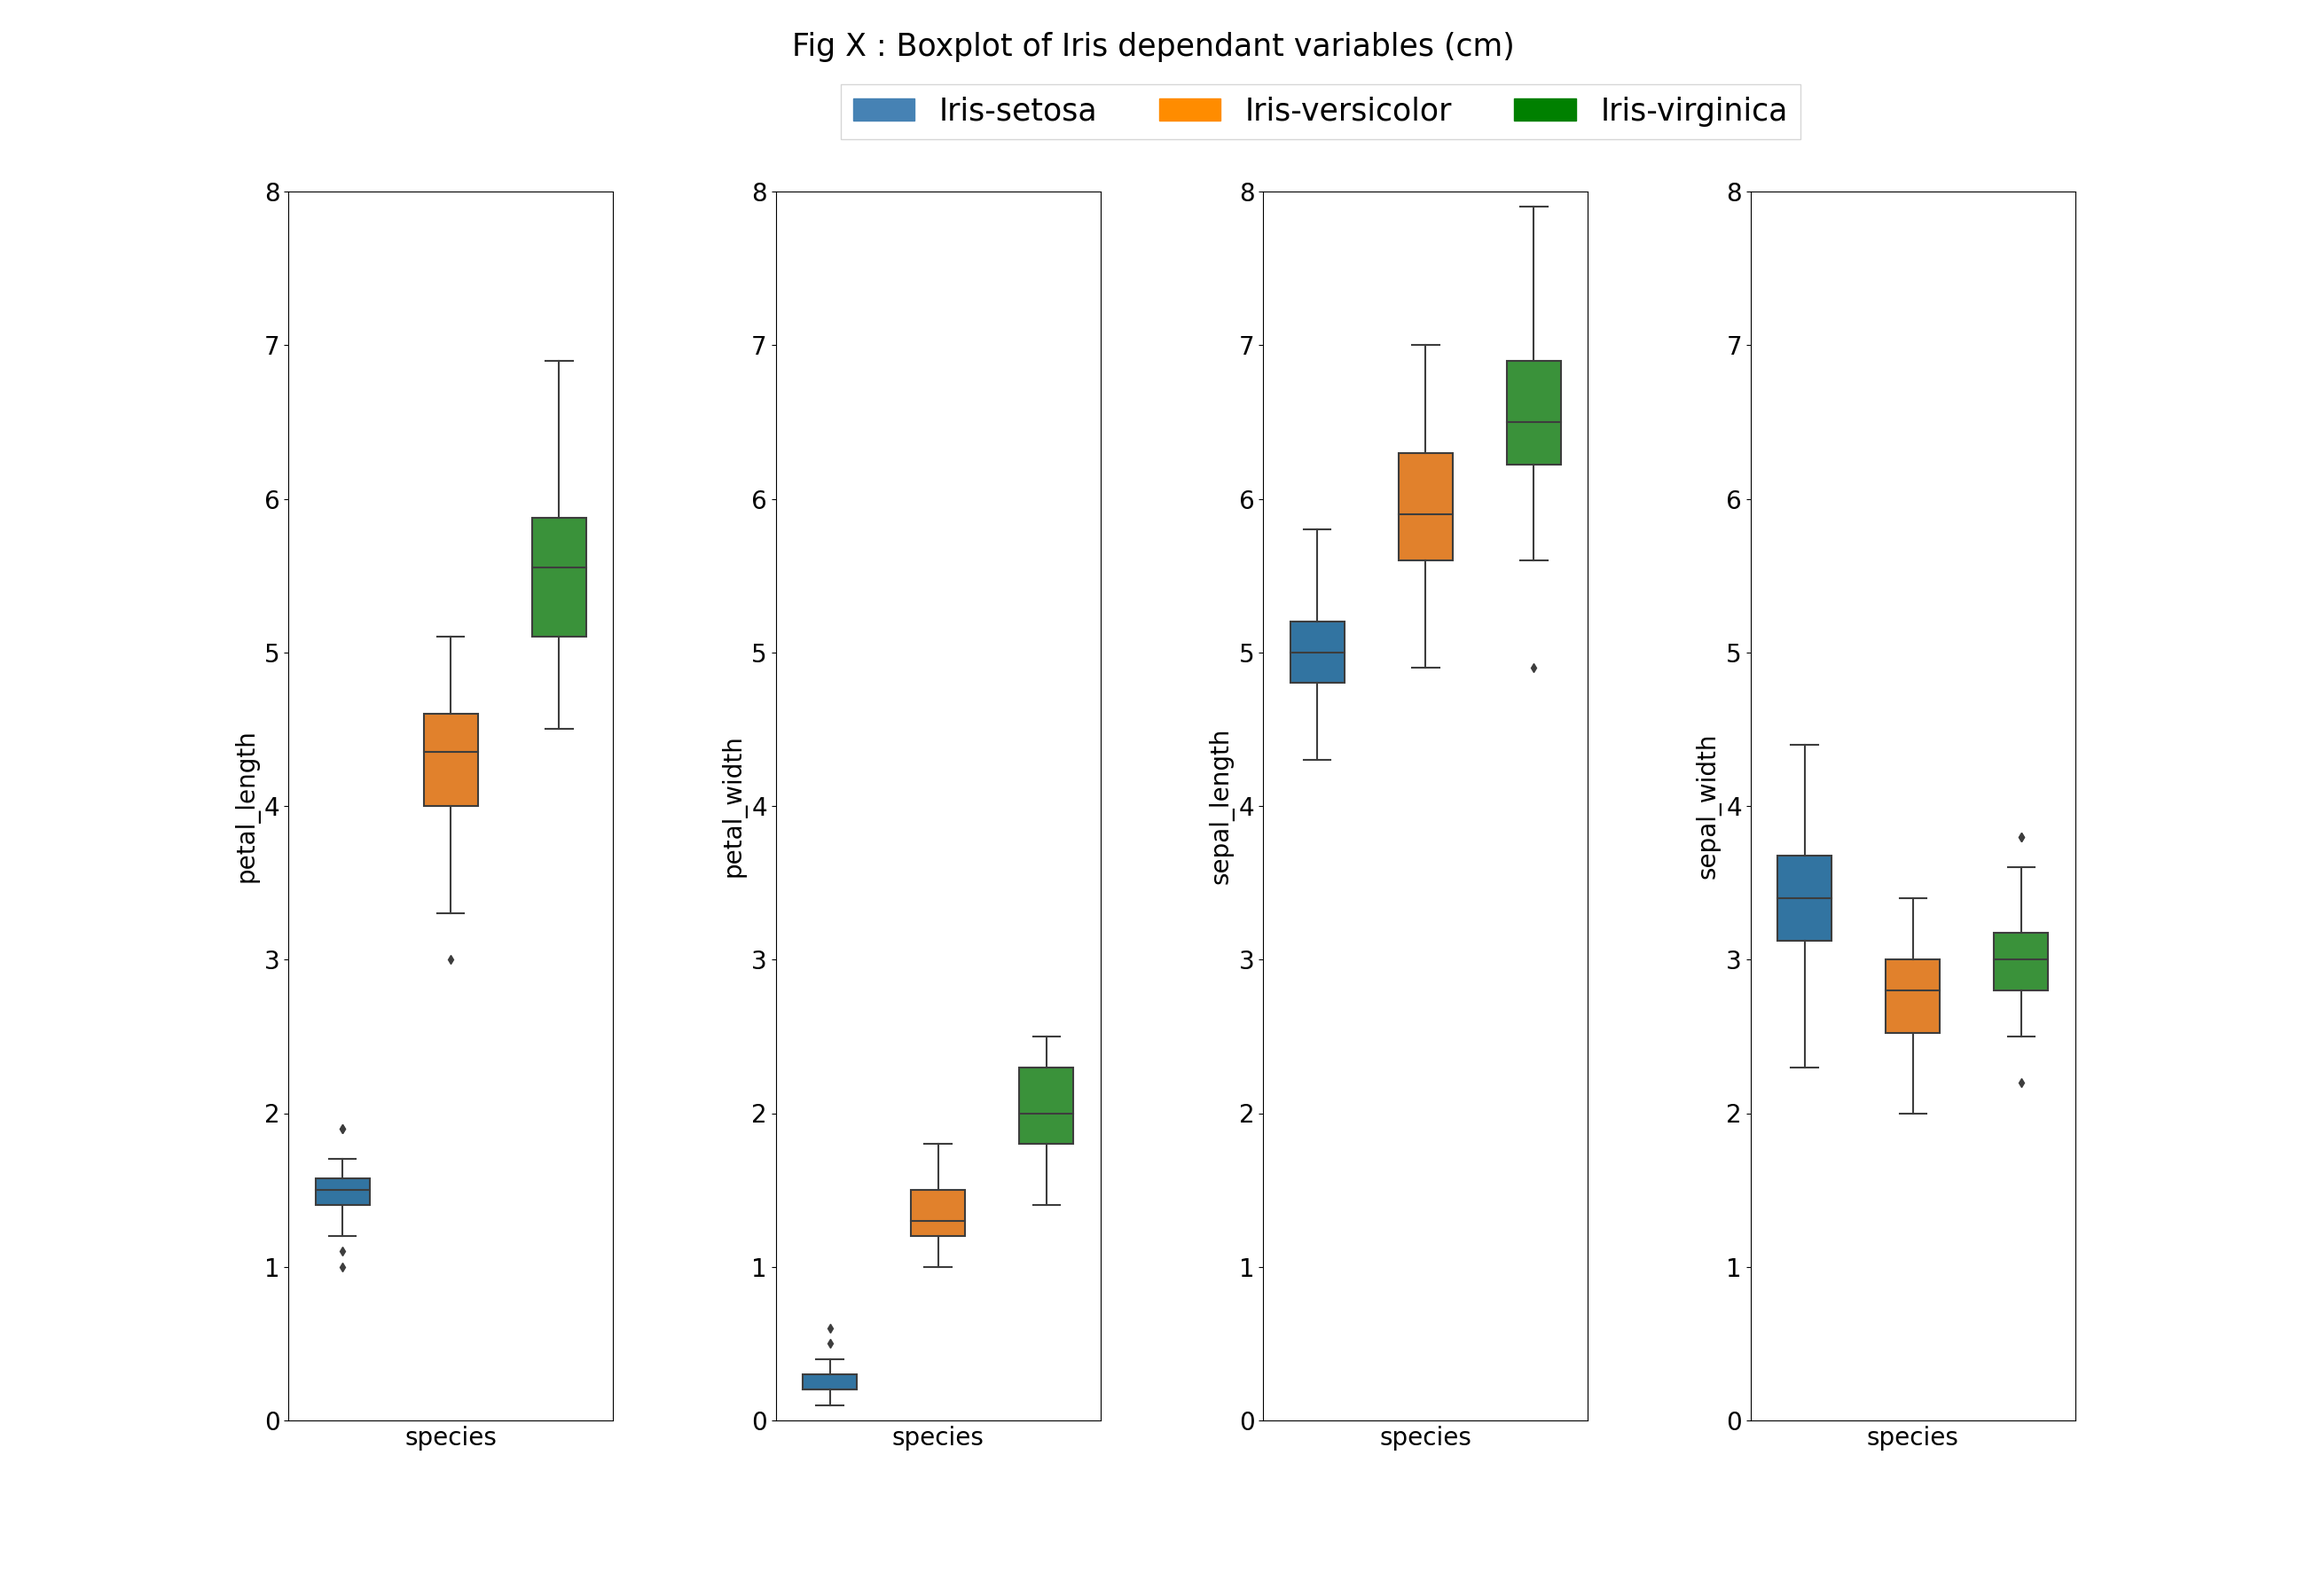
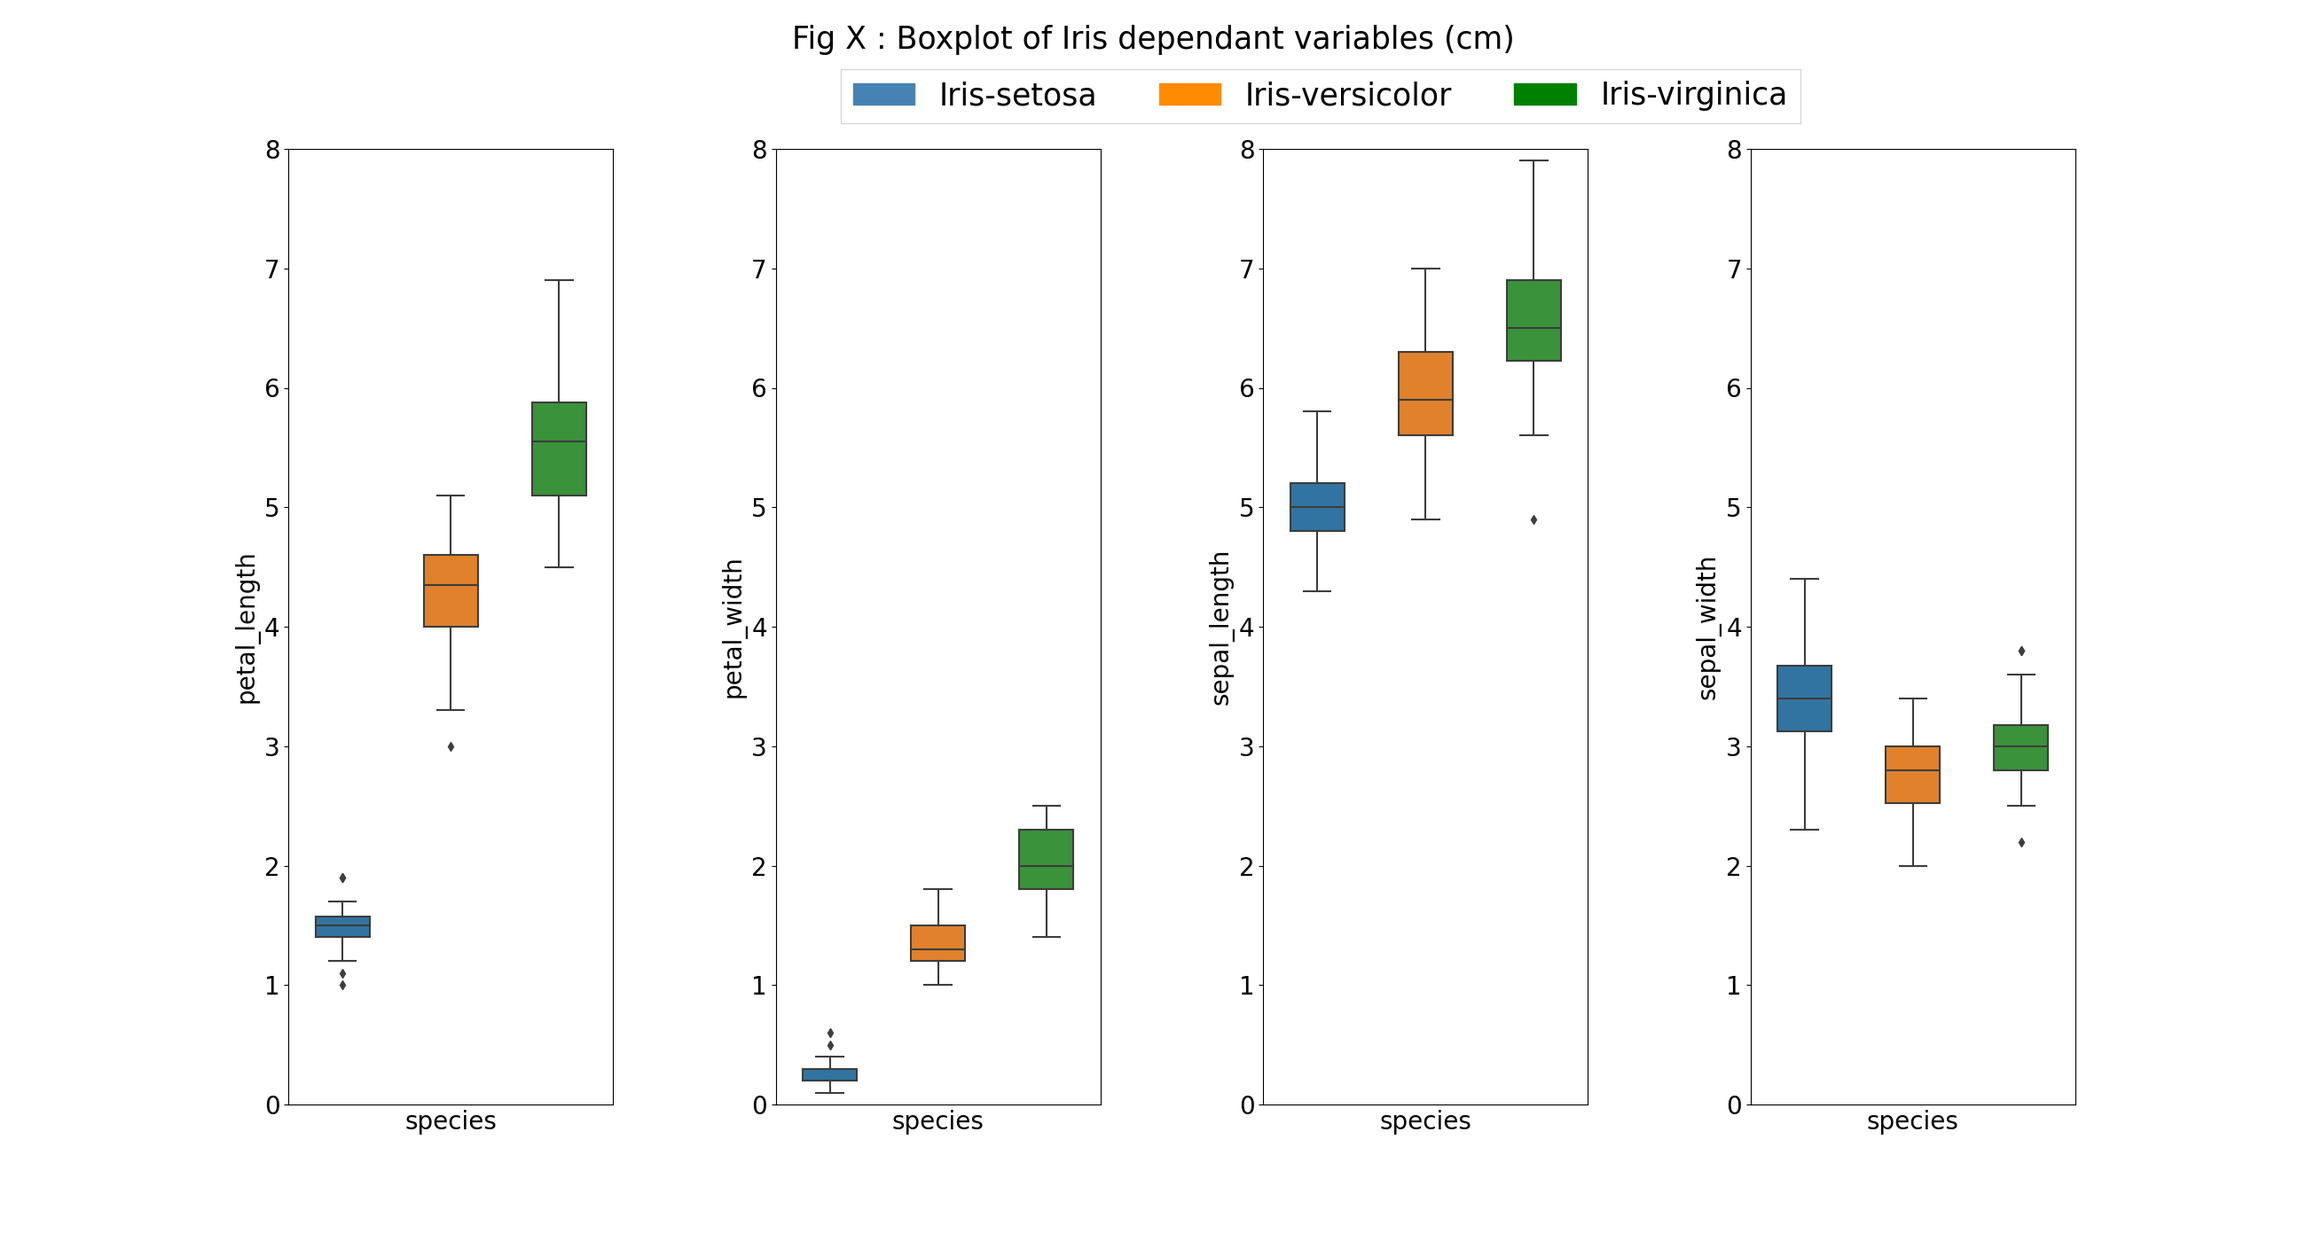
test

diff --git a/Project/analysis.py b/Project/analysis.py
@@ -101,7 +101,7 @@ plot_histograms('histograms_sepals','Plot 2','Sepals','sepal_length','sepal_widt
 def plot_boxplot():
     from matplotlib import patches as mpatches
 
-    fig, axes = plt.subplots(1,4, figsize=(26, 18))
+    fig, axes = plt.subplots(1,4, figsize=(26, 14))
     fig.suptitle('Fig X : Boxplot of Iris dependant variables (cm)', fontsize = 25)
 
     sns.boxplot(ax=axes[0], x = iris_df["species"], y = iris_df["petal_length"], data = iris_df, width=0.5)
